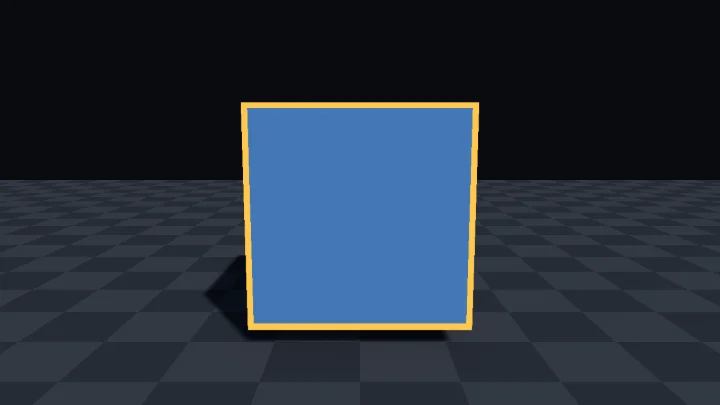
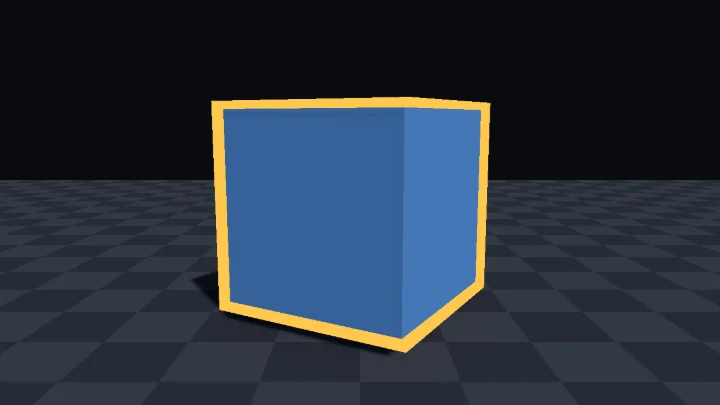
dispatch(inverted-hull-outline-fix): 표본 수정: inverted-hull-outline 리뷰 반영
Dispatch-Job: inverted-hull-outline-fix
Dispatch-Profile: org
Dispatch-Model: claude-opus-5-5

Changed region(s): [[0.2444, 0.237, 0.7028, 0.8889]]

diff --git a/web/src/specimens/inverted-hull-outline/meta.ts b/web/src/specimens/inverted-hull-outline/meta.ts
@@ -6,11 +6,11 @@ export const meta: SpecimenMeta = {
   titleEn: 'Inverted Hull Outline',
   group: 'B',
   order: 2,
-  oneLiner: '부풀린 뒷면을 한 번 더 그려 외곽선을 만든다',
+  oneLiner: '조금 키운 껍데기의 뒷면을 한 번 더 그려 외곽선을 만든다',
   goals: [
     '같은 물체를 패스 두 개로 그리고, 외곽선 패스에만 `Cull Front` 를 쓰는 이유를 설명할 수 있다.',
-    '정점 셰이더에서 정점을 바깥으로 밀어 두께를 조절할 수 있다.',
-    '각진 메시에서 법선이 갈라져 모서리 외곽선이 끊기는 이유와 해결 방법을 설명할 수 있다.',
+    '정점 셰이더에서 메시를 피벗 기준으로 키우거나 법선 방향으로 밀어 껍데기 두께를 조절할 수 있다.',
+    '각진 메시에서 법선 밀기가 모서리를 끊는 이유와, 피벗 기준 확대가 통하는 메시와 통하지 않는 메시를 설명할 수 있다.',
     'C# 에서 `_OutlineAmount` 를 올리고 내려 선택한 물체에만 외곽선을 켤 수 있다.',
   ],
   tags: ['멀티 패스', 'Cull Front', '정점 변형', '외곽선', '선택 표시'],
@@ -18,34 +18,35 @@ export const meta: SpecimenMeta = {
   shaderFile: 'InvertedHullOutline.shader',
   stage: { kind: 'mesh', mesh: 'cube', blend: 'cutout', outline: true },
   params: [
-    { key: '_OutlineWidth', label: '외곽선 두께', type: 'range', min: 0, max: 0.15, step: 0.005, default: 0.04, hint: '껍데기를 밀어내는 거리(오브젝트 공간 미터). 물체 스케일과 카메라 거리에 따라 화면 두께가 달라진다' },
+    { key: '_OutlineWidth', label: '외곽선 두께', type: 'range', min: 0, max: 0.15, step: 0.005, default: 0.04, hint: '껍데기가 본체 밖으로 나가는 거리(오브젝트 공간 미터). 피벗 기준 확대에서는 피벗에서 0.5 떨어진 면(한 변 1 인 큐브, 반지름 0.5 인 구)에서 정확히 이 값이고, 피벗에서 멀수록 비례해 두꺼워진다. 물체 스케일과 카메라 거리에 따라서도 화면 두께가 달라진다' },
     { key: '_OutlineColor', label: '외곽선 색', type: 'color', default: '#ffc94d', hint: '조명과 상관없는 단색. 그늘 쪽 윤곽에서도 그대로다' },
     { key: '_OutlineAmount', label: '외곽선 켜기', type: 'range', min: 0, max: 1, step: 0.01, default: 1, hint: 'C# 이 선택할 때 0 에서 1 로 올린다. 0 이면 껍데기가 본체 안으로 숨는다' },
     {
       key: '_PushDir',
-      label: '미는 방향',
+      label: '미는 방식',
       type: 'select',
       options: [
-        { value: '0', label: '법선' },
-        { value: '1', label: '중심에서 바깥' },
+        { value: '0', label: '법선으로 밀기' },
+        { value: '1', label: '피벗 기준 확대' },
       ],
       default: '1',
-      hint: '법선은 구, 캐릭터처럼 부드러운 메시용. 이 큐브처럼 각진 메시에서 법선을 고르면 모서리마다 선이 끊긴다',
+      hint: '피벗 기준 확대는 메시 전체를 `1 + 두께 × 2` 배로 키워 같은 자리의 정점이 함께 움직이므로 이 큐브의 모서리도 이어진다. 납작하거나 오목한 메시에서는 선이 얇아지거나 사라진다. 법선으로 밀기는 구, 캐릭터처럼 부드러운 메시용이라 이 큐브에서 고르면 모서리마다 선이 끊긴다',
     },
     { key: '_BaseColor', label: '기본 색', type: 'color', default: '#4f86c6', hint: '본체 색. 조명을 곱한 단순한 음영이다' },
   ],
   presets: [
     { id: 'selected', name: '선택한 물체', look: '노란 테두리로 지금 고른 물체를 알린다', values: {} },
     { id: 'toon-ink', name: '툰 잉크 선', look: '밝은 몸에 어두운 먹선을 두른 만화 느낌. 어두운 배경 쪽 윤곽은 묻힌다', values: { _OutlineColor: '#141821', _OutlineWidth: 0.03, _BaseColor: '#f2c38b' } },
-    { id: 'attack-target', name: '공격 대상 표시', look: '무채색 몸에 굵은 빨간 테두리로 노리는 적을 가린다', values: { _OutlineColor: '#ff4a3d', _OutlineWidth: 0.07, _BaseColor: '#8c919c' } },
-    { id: 'fine-line', name: '가는 윤곽선', look: '아주 얇은 흰 선으로 실루엣만 떼어 낸다', values: { _OutlineColor: '#ffffff', _OutlineWidth: 0.015, _BaseColor: '#3d4a5c' } },
+    { id: 'attack-target', name: '공격 대상 표시', look: '무채색 몸에 굵은 빨간 테두리를 둘러 노리는 적을 짚어 준다', values: { _OutlineColor: '#ff4a3d', _OutlineWidth: 0.07, _BaseColor: '#8c919c' } },
+    { id: 'fine-line', name: '가는 윤곽선', look: '아주 얇은 흰 선이 실루엣 가장자리만 가늘게 따라간다', values: { _OutlineColor: '#ffffff', _OutlineWidth: 0.015, _BaseColor: '#3d4a5c' } },
   ],
   events: [
     {
       id: 'select',
       label: '선택',
       // 고르기 전(외곽선 없음)을 잠깐 보여 준 뒤, HullOutlineSelection.Select() 처럼 0.12초 동안 외곽선을 키운다.
-      tracks: [{ key: '_OutlineAmount', frames: [[0, 0], [0.4, 0], [0.52, 1]], ease: 'outQuad' }],
+      // C# 의 Mathf.Lerp 와 같게 선형으로 올린다.
+      tracks: [{ key: '_OutlineAmount', frames: [[0, 0], [0.4, 0], [0.52, 1]], ease: 'linear' }],
     },
   ],
   demo: {
@@ -53,37 +54,38 @@ export const meta: SpecimenMeta = {
     loops: [{ key: '_OutlineAmount', frames: [[0, 1], [2.4, 1], [2.52, 0], [3.8, 0], [3.92, 1]], ease: 'linear' }],
   },
   steps: [
-    { n: 1, label: '본체만', body: '본체는 기본 색에 조명을 곱한 음영이다. 이 단계에서는 껍데기도 같은 식으로 칠해 외곽선 색을 감췄다. 윤곽 둘레에 본체와 같은 색이지만 면과 밝기가 다른 띠가 붙어 실루엣이 살짝 부푼 것이 보인다. 그 띠가 본체 뒤에서 삐져나온 껍데기의 뒷면이다.' },
-    { n: 2, label: '앞면까지 그리면', body: '부풀린 껍데기를 앞면까지 그리면 껍데기가 본체보다 카메라에 가까워 본체를 통째로 덮는다. 외곽선 색 덩어리만 남는다. 외곽선 패스에 `Cull Front` 를 넣는 이유다.' },
+    { n: 1, label: '숨은 껍데기', body: '본체는 기본 색에 조명을 곱한 음영이다. 이 단계에서는 껍데기도 같은 식으로 칠해 외곽선 색을 감췄다. 윤곽 둘레에 본체와 같은 색이지만 면과 밝기가 다른 띠가 붙어 실루엣이 살짝 부푼 것이 보인다. 그 띠가 본체 뒤에서 삐져나온 껍데기의 뒷면이다.' },
+    { n: 2, label: '앞면까지 그리면', body: '키운 껍데기를 앞면까지 그리면 껍데기가 본체보다 카메라에 가까워 본체를 통째로 덮는다. 외곽선 색 덩어리만 남는다. 외곽선 패스에 `Cull Front` 를 넣는 이유다.' },
     { n: 3, label: 'Cull Front', body: '껍데기의 앞면을 버리고 뒷면만 그린다. 뒷면은 본체 뒤에 있어 대부분 가려지고, 윤곽 바깥으로 삐져나온 띠만 남아 외곽선이 된다. `_OutlineWidth` 가 그 띠의 폭이다.' },
   ],
-  offNote: '각진 메시에서 정점 법선 그대로 껍데기를 민 흔한 실수. 큐브는 모서리 정점이 면마다 따로 있고 법선도 면마다 달라, 여섯 면이 제각기 밀려 나가며 모서리마다 외곽선이 끊기고 이가 빠진다. 두께를 올릴수록 틈이 커진다. 미는 방향을 법선으로 바꿔도 같은 모습이다.',
+  offNote: '각진 메시에서 정점 법선 그대로 껍데기를 민 흔한 실수. 큐브는 모서리 정점이 면마다 따로 있고 법선도 면마다 달라, 여섯 면이 제각기 밀려 나가며 모서리마다 외곽선이 끊기고 이가 빠진다. 두께를 올릴수록 틈이 커진다. 미는 방식을 법선으로 밀기로 바꿔도 같은 모습이다. 기본인 피벗 기준 확대는 같은 자리의 정점이 함께 움직여 모서리가 이어진다.',
   mistakes: [
-    { title: '각진 메시에서 모서리마다 외곽선이 끊긴다', body: '큐브나 로우폴리 소품은 모서리 정점이 면마다 따로 있고 법선도 갈라져 있다. 법선 방향으로 밀면 면이 제각기 떨어져 나가 모서리에 틈이 생긴다. 피벗이 가운데인 볼록한 메시는 이 표본의 미는 방향을 **중심에서 바깥** 으로 둔다. 캐릭터처럼 오목한 메시는 같은 자리의 법선을 평균한 부드러운 법선을 DCC 도구나 에디터 스크립트로 UV 채널(예: UV3)에 구워 두고, 래퍼의 `vertOutline` 에서 그 채널을 읽어 민다.' },
-    { title: '물체 전체가 외곽선 색으로 덮인다', body: '외곽선 패스가 `Cull Back`(기본값)이거나 `Cull Off` 이면 부풀린 껍데기의 앞면이 본체를 가린다. 외곽선 패스에만 `Cull Front` 를 넣고 본체 패스는 그대로 둔다.' },
+    { title: '각진 메시에서 모서리마다 외곽선이 끊긴다', body: '큐브나 로우폴리 소품은 모서리 정점이 면마다 따로 있고 법선도 갈라져 있다. 법선 방향으로 밀면 면이 제각기 떨어져 나가 모서리에 틈이 생긴다. 이 표본의 기본인 **피벗 기준 확대**(`positionOS * (1.0 + width * 2.0)`)는 메시 전체를 키우므로 같은 자리의 정점이 함께 움직여 틈이 없다. 다만 두께가 피벗에서의 거리에 비례하므로 피벗이 가운데인 볼록하고 두툼한 메시에서만 고르다. 판자처럼 납작한 메시는 두께 방향으로 거의 커지지 않아 넓은 면 쪽 선이 거의 0 이고 긴 쪽 끝만 두꺼워진다. 팔 안쪽이나 컵 안처럼 오목한 곳은 껍데기가 본체 안쪽으로 밀려 선이 사라진다. 그런 메시는 같은 자리의 법선을 평균한 부드러운 법선을 DCC 도구나 에디터 스크립트로 UV 채널(예: UV3)에 구워 두고, 래퍼의 `vertOutline` 에서 그 채널을 읽어 그 방향으로 민다.' },
+    { title: '물체 전체가 외곽선 색으로 덮인다', body: '외곽선 패스가 `Cull Back`(기본값)이거나 `Cull Off` 이면 키운 껍데기의 앞면이 본체를 가린다. 외곽선 패스에만 `Cull Front` 를 넣고 본체 패스는 그대로 둔다.' },
     { title: '외곽선 패스가 아예 그려지지 않는다', body: 'URP 는 같은 `LightMode` 태그의 패스가 둘이면 첫 패스만 그린다. 두 패스를 모두 `UniversalForward` 로 두면 외곽선이 사라진다. 외곽선 패스는 `"LightMode" = "SRPDefaultUnlit"` 으로 둔다.' },
-    { title: '멀리 가면 선이 가늘어지고 가까이 오면 굵어진다', body: '두께가 오브젝트 공간 길이라 원근에 따라 화면 두께가 바뀐다. 화면에서 같은 두께를 원하면 래퍼의 `vertOutline` 에서 클립 공간으로 민다. 위치와 법선을 클립 공간으로 바꾼 뒤 `positionCS.xy += normalize(법선CS.xy) * 픽셀두께 * 2 / _ScreenParams.xy * positionCS.w` 처럼 화면 크기로 나누고 `w` 를 곱한다. `sgVertex` 는 오브젝트 공간 위치만 돌려주므로 이 보정은 래퍼에서 한다.' },
-    { title: '스케일을 키운 물체만 외곽선이 굵다', body: '오브젝트 공간 두께는 Transform 스케일과 함께 커진다. 스케일이 다른 물체를 같은 두께로 보이게 하려면 C# 에서 `_OutlineWidth` 를 스케일로 나눠 넣거나, 위의 클립 공간 보정을 쓴다. 비균일 스케일이면 방향마다 두께가 달라진다.' },
+    { title: '거리나 스케일에 따라 선 두께가 달라진다', body: '두께가 오브젝트 공간 길이라 멀리 가면 가늘어지고 가까이 오면 굵어지며, Transform 스케일을 키운 물체는 선도 함께 굵어진다(비균일 스케일이면 방향마다 다르다). 스케일만 맞추려면 C# 에서 `_OutlineWidth` 를 스케일로 나눠 넣는다. 화면에서 늘 같은 두께를 원하면 래퍼의 `vertOutline` 에서 클립 공간으로 민다. 위치와 법선을 클립 공간으로 바꾼 뒤 `positionCS.xy += normalize(법선CS.xy) * 픽셀두께 * 2 / _ScreenParams.xy * positionCS.w` 처럼 화면 크기로 나누고 `w` 를 곱한다. `sgVertex` 는 오브젝트 공간 위치만 돌려주므로 이 보정은 래퍼에서 한다.' },
+    { title: 'SSAO 를 켜자 외곽선이 사라진다', body: 'Unity 에서 직접 확인하지는 않았지만 그럴 수 있다. 외곽선 패스(`SRPDefaultUnlit`)는 깊이 프리패스(`DepthOnly`)에 없다. Universal Renderer 의 Depth Priming 이 켜진 채 SSAO 같은 기능 때문에 깊이 프리패스가 돌면, 불투명 그리기가 프리패스 깊이와 같은 곳만 그리는 `ZTest Equal` 로 바뀌어 프리패스에 없던 껍데기가 통째로 버려진다. Window > Analysis > Frame Debugger 에서 Outline 패스의 그리기가 있는지, 그 그리기의 ZTest 가 Equal 인지 본다. 그렇다면 Universal Renderer Data 의 Depth Priming Mode 를 Disabled 로 바꿔 외곽선이 돌아오는지 확인한다.' },
   ],
   unity: {
     setup: [
       '`InvertedHullOutline.shader`, `core.hlsl`, `HullOutlineSelection.cs` 를 `Assets/Shaders/inverted-hull-outline/` 에 둔다.',
       'Project 창에서 셰이더를 우클릭해 Create > Material 로 머티리얼을 만든다.',
-      '머티리얼을 대상 MeshRenderer 에 넣는다. Inspector 에서 외곽선 두께와 색을 맞춘다. 큐브 같은 각진 볼록 메시는 미는 방향을 FromCenter, 구나 캐릭터처럼 부드러운 메시는 Normal 로 둔다.',
+      '머티리얼을 대상 MeshRenderer 에 넣는다. Inspector 에서 외곽선 두께와 색을 맞춘다. 미는 방식은 큐브처럼 피벗이 가운데인 각진 볼록 메시면 ScaleFromPivot(기본), 구나 캐릭터처럼 부드러운 메시면 Normal 로 둔다.',
       '선택 표시에 쓸 때는 같은 오브젝트에 `HullOutlineSelection` 을 붙인다. 고를 때 `Select()`, 놓을 때 `Deselect()` 를 호출한다. 인자가 없어 Inspector 의 UnityEvent(예: XR Simple Interactable 의 Hover Entered, Hover Exited)에 바로 연결할 수 있다.',
     ],
-    verify: '외곽선 두께를 올리면 물체 둘레의 선이 굵어지고 0 으로 내리면 사라진다. 큐브에서 미는 방향을 Normal 로 바꾸면 모서리마다 선이 끊긴다.',
+    verify: '외곽선 두께를 올리면 물체 둘레의 선이 굵어지고 0 으로 내리면 사라진다. 큐브에서 미는 방식을 Normal 로 바꾸면 모서리마다 선이 끊긴다.',
     pitfalls: [
-      '이 셰이더는 불투명 3D 메시용이다. 본체 패스가 `UniversalForwardOnly` 라 2D Renderer 에서는 그려지지 않는다. 3D 프로젝트에서 쓴다.',
-      '물체를 두 번 그리므로 외곽선을 켠 물체마다 그리기 호출이 하나씩 늘어난다. `HullOutlineSelection` 은 외곽선이 꺼진 동안 `SetShaderPassEnabled` 로 외곽선 패스를 건너뛴다. 장면의 모든 물체에 상시 외곽선이 필요하면 깊이와 법선으로 화면에서 한 번에 그리는 후처리 방식과 비교한다.',
-      '미는 방향 FromCenter 는 피벗이 메시 가운데 있는 볼록한 메시에서만 고르게 부푼다. 피벗이 발밑이거나 팔다리가 있는 메시는 한쪽으로 쏠린다. 이런 메시는 Normal 로 두고 부드러운 법선을 굽는다.',
+      '이 셰이더는 불투명 3D 메시용이다. 2D Renderer 는 `Universal2D` 와 `SRPDefaultUnlit` 태그만 그리므로 본체 패스(`UniversalForwardOnly`)는 빠지고 외곽선 패스(`SRPDefaultUnlit`)만 그려져, 화면에 외곽선 색 덩어리만 보인다. 3D 프로젝트(Universal Renderer)에서 쓴다.',
+      '물체를 두 번 그리므로 외곽선을 켠 물체마다 그리기 호출이 하나씩 늘어난다. `HullOutlineSelection` 은 외곽선이 꺼진 동안 `SetShaderPassEnabled` 로 외곽선 패스를 건너뛴다. 이 스크립트는 `renderer.material`(Materials 목록의 첫 머티리얼)만 고치므로, 외곽선을 두 번째 머티리얼로 덧붙이는 방식과 함께 쓰면 외곽선이 켜지지 않는다. 장면의 모든 물체에 상시 외곽선이 필요하면 깊이와 법선으로 화면에서 한 번에 그리는 후처리 방식과 비교한다.',
+      '미는 방식 ScaleFromPivot 은 메시를 피벗 기준으로 키우므로 두께가 피벗에서의 거리에 비례한다. 피벗이 발밑이면 발 쪽은 선이 거의 없고 머리 쪽만 두꺼워진다. 판자처럼 납작한 메시는 두께 방향으로 거의 커지지 않아 넓은 면 쪽 선이 거의 0 이 되고, 오목한 곳은 껍데기가 안쪽으로 밀려 선이 사라진다. 이런 메시는 Normal 로 두고 부드러운 법선을 굽는다.',
       '평면(Quad, Plane)처럼 뒤가 비어 있는 메시는 껍데기의 뒷면이 앞을 향해 외곽선이 면 전체를 덮거나 비어 보인다. 닫힌 메시에 쓴다.',
-      '외곽선 색은 조명과 그림자를 받지 않는 단색이다. 외곽선은 그림자를 드리우지 않고 깊이와 노멀 텍스처에도 들어가지 않는다.',
+      '외곽선 색은 조명과 그림자를 받지 않는 단색이다. 외곽선은 그림자를 드리우지 않고 노멀 텍스처(`_CameraNormalsTexture`)에도 들어가지 않는다. 깊이 텍스처는 만드는 방식에 따라 다르다. 깊이 프리패스로 만들면 외곽선 패스가 프리패스에 없어 빠지고, 불투명을 그린 뒤 깊이를 복사하면 껍데기 깊이도 함께 들어간다. 깊이를 읽는 다른 효과가 외곽선을 물체로 볼 수 있다.',
+      '정적 배칭: Batching Static 을 켠 물체는 플레이와 빌드에서 정점이 월드 좌표로 합쳐져 셰이더의 `positionOS` 가 월드 위치가 된다. ScaleFromPivot 의 확대 기준이 물체의 피벗이 아니라 월드 원점이 되어, 껍데기가 원점 반대쪽으로 밀리고 선이 한쪽으로 쏠린다. 원점에서 먼 물체일수록 심하다. 외곽선을 쓰는 물체는 Inspector 의 Static 에서 Batching Static 을 끈다.',
     ],
-    graph: 'Shader Graph 는 그래프에 `Cull Front` 패스를 직접 하나 더 넣을 수 없어 이 구성을 그래프 하나로 만들 수 없다. 본체는 그래프로 만들고, 외곽선만 이 셰이더의 외곽선 패스를 떼어 낸 두 번째 머티리얼로 MeshRenderer 의 Materials 에 하나 더 넣거나 Render Objects 렌더러 기능으로 덧그린다.',
+    graph: 'Shader Graph 는 그래프 하나에 `Cull Front` 패스를 더 넣을 수 없다. 본체는 그대로 두고 외곽선용 그래프를 하나 더 만들어 두 번째 머티리얼로 쓴다. 외곽선 그래프는 Create > Shader Graph > URP > Unlit Shader Graph 로 만들고, Graph Inspector 의 Graph Settings 에서 Render Face 를 Back 으로 둔다 (`Cull Front` 와 같다). Fragment 의 Base Color 에는 외곽선 색 속성을 넣는다. Vertex 의 Position 에는 Position 노드(Object)에 `1 + 두께 * 2` 를 곱한 값(피벗 기준 확대)이나 Position + Normal Vector(Object) * 두께(법선 밀기)를 넣는다. 이 계산을 Custom Function 노드로 하려면 Type 을 String 으로 두고 입력 `Position`, `Width`, 출력 `Out`(Vector 3)을 만든 뒤 `Out = Position * (1.0 + Width * 2.0);` 한 줄을 넣는다. `core.hlsl` 을 File 로 바로 읽으면 `SgInput` 과 머티리얼 값 선언이 없어 컴파일되지 않으므로 계산만 옮긴다. 만든 머티리얼은 MeshRenderer 의 Materials 에 두 번째로 넣는다. 서브메시가 하나인 메시는 남는 머티리얼이 메시 전체를 한 번 더 그린다. 이때 C# 은 `renderer.materials[1]` 을 고친다.',
   },
   prompt: {
-    goal: '3D 물체를 법선 방향으로 부풀린 껍데기의 뒷면으로 한 번 더 그려 외곽선을 두르는 셰이더를 넣는다. 각진 메시에서도 모서리가 끊기지 않고, 선택한 물체에만 C# 로 외곽선을 켠다.',
+    goal: '3D 물체를 피벗 기준으로 조금 키운 껍데기의 뒷면으로 한 번 더 그려 외곽선을 두르는 셰이더를 넣는다. 큐브처럼 피벗이 가운데인 볼록한 메시는 각진 모서리에서도 선이 끊기지 않고, 구나 캐릭터처럼 부드러운 메시는 법선 방향으로 미는 방식으로 바꿀 수 있다. 선택한 물체에만 C# 로 외곽선을 켠다.',
     adaptIdeas: [
       '카메라에서 멀어져도 외곽선이 화면에서 같은 픽셀 두께로 보이게 클립 공간 보정을 넣고 싶다.',
       'XR 에서 손이 다가가면(Hover) 외곽선이 켜지고, 잡으면(Select) 색이 바뀌게 하고 싶다.',
@@ -93,11 +95,11 @@ export const meta: SpecimenMeta = {
     ],
   },
   captures: [
-    { name: 'toon-ink', label: '툰 잉크 선', values: { _OutlineColor: '#141821', _OutlineWidth: 0.03, _BaseColor: '#f2c38b' } },
+    { name: 'attack-target', label: '공격 대상 표시', values: { _OutlineColor: '#ff4a3d', _OutlineWidth: 0.07, _BaseColor: '#8c919c' } },
     { name: 'normal-push', label: '법선으로 밀기 (모서리 끊김)', values: { _PushDir: '0', _OutlineWidth: 0.08 } },
   ],
   inspiredBy: [],
-  original: '특정 게임의 재현이 아니라 널리 쓰이는 범용 기법이다. 수업 3D 14 Animation 의 `SimpleUnlitToon` 과 같은 2패스 구성(본체 패스와 `Cull Front` 외곽선 패스)이다. 이 표본은 거기에 두께와 켜기 값을 조절 값으로 꺼내 C# 로 선택한 물체에만 외곽선을 켜는 선택 표시, 각진 메시의 모서리 끊김을 막는 미는 방향 선택을 더했다. 코드는 이 갤러리에서 새로 작성했다.',
+  original: '특정 게임의 재현이 아니라 널리 쓰이는 범용 기법이다. 수업 3D 14 Animation 의 `SimpleUnlitToon` 과 같은 2패스 구성(본체 패스와 `Cull Front` 외곽선 패스)이다. 이 표본은 거기에 두께와 켜기 값을 조절 값으로 꺼내 C# 로 선택한 물체에만 외곽선을 켜는 선택 표시, 각진 메시의 모서리 끊김을 막는 피벗 기준 확대와 법선 밀기 사이의 선택을 더했다. 코드는 이 갤러리에서 새로 작성했다.',
   references: [
     { label: 'Unity 6 셰이더·VFX 전자책 (URP)', url: 'https://unity.com/kr/resources/create-shaders-visual-effects-urp-unity-6' },
     { label: 'Real Time VFX: 모바일 URP 의 법선 외곽선 토론', url: 'https://realtimevfx.com/t/unity-outline-by-normals-for-mobile-game-urp/14919' },

diff --git a/Assets/Shaders/inverted-hull-outline/HullOutlineSelection.cs b/Assets/Shaders/inverted-hull-outline/HullOutlineSelection.cs
@@ -9,7 +9,9 @@ namespace ShaderGallery.Samples
     {
         static readonly int OutlineAmount = Shader.PropertyToID("_OutlineAmount");
 
-        // 외곽선 패스의 LightMode 태그. SetShaderPassEnabled 는 이 이름으로 패스를 켜고 끈다.
+        // 외곽선 패스의 LightMode 태그. SetShaderPassEnabled 는 패스 이름이 아니라 이 태그로 켜고 끈다.
+        // 그래서 같은 셰이더에 SRPDefaultUnlit 태그의 패스가 더 있으면 그 패스도 함께 꺼진다.
+        // 이 셰이더를 고쳐 그런 패스를 더하면 외곽선만 끄는 다른 방법(예: _OutlineAmount 만 0)을 쓴다.
         const string OutlinePassTag = "SRPDefaultUnlit";
 
         [SerializeField] bool selectedOnStart = false;
@@ -26,6 +28,9 @@ namespace ShaderGallery.Samples
         {
             // 이 물체 전용 복사본을 쓴다. 그래야 같은 머티리얼의 다른 물체에는 외곽선이 켜지지 않고 SRP Batcher 도 유지된다.
             // 머티리얼 에셋의 기본값(1)은 썸네일용이라, 시작 상태는 여기서 넣는다.
+            // .material 은 Materials 목록의 첫 머티리얼만 잡는다. 이 스크립트는 이 셰이더가 첫 머티리얼(본체와 외곽선을 함께 그림)일 때용이다.
+            // 외곽선을 두 번째 머티리얼로 덧붙이는 방식과 함께 쓰면 본체 머티리얼만 바뀌어 외곽선이 켜지지 않는다.
+            // 그 방식이면 .materials 배열에서 외곽선 머티리얼의 칸을 골라 고친다.
             material = GetComponent<Renderer>().material;
             selected = selectedOnStart;
             Apply(selected ? 1f : 0f);
@@ -62,7 +67,8 @@ namespace ShaderGallery.Samples
         IEnumerator Fade(float target)
         {
             float start = amount;
-            for (float t = 0f; t < fadeSeconds; t += Time.deltaTime)
+            // 일시정지 메뉴(timeScale 0)에서 고를 때도 멈추지 않게 실제 시간으로 잰다.
+            for (float t = 0f; t < fadeSeconds; t += Time.unscaledDeltaTime)
             {
                 Apply(Mathf.Lerp(start, target, t / fadeSeconds));
                 yield return null;
